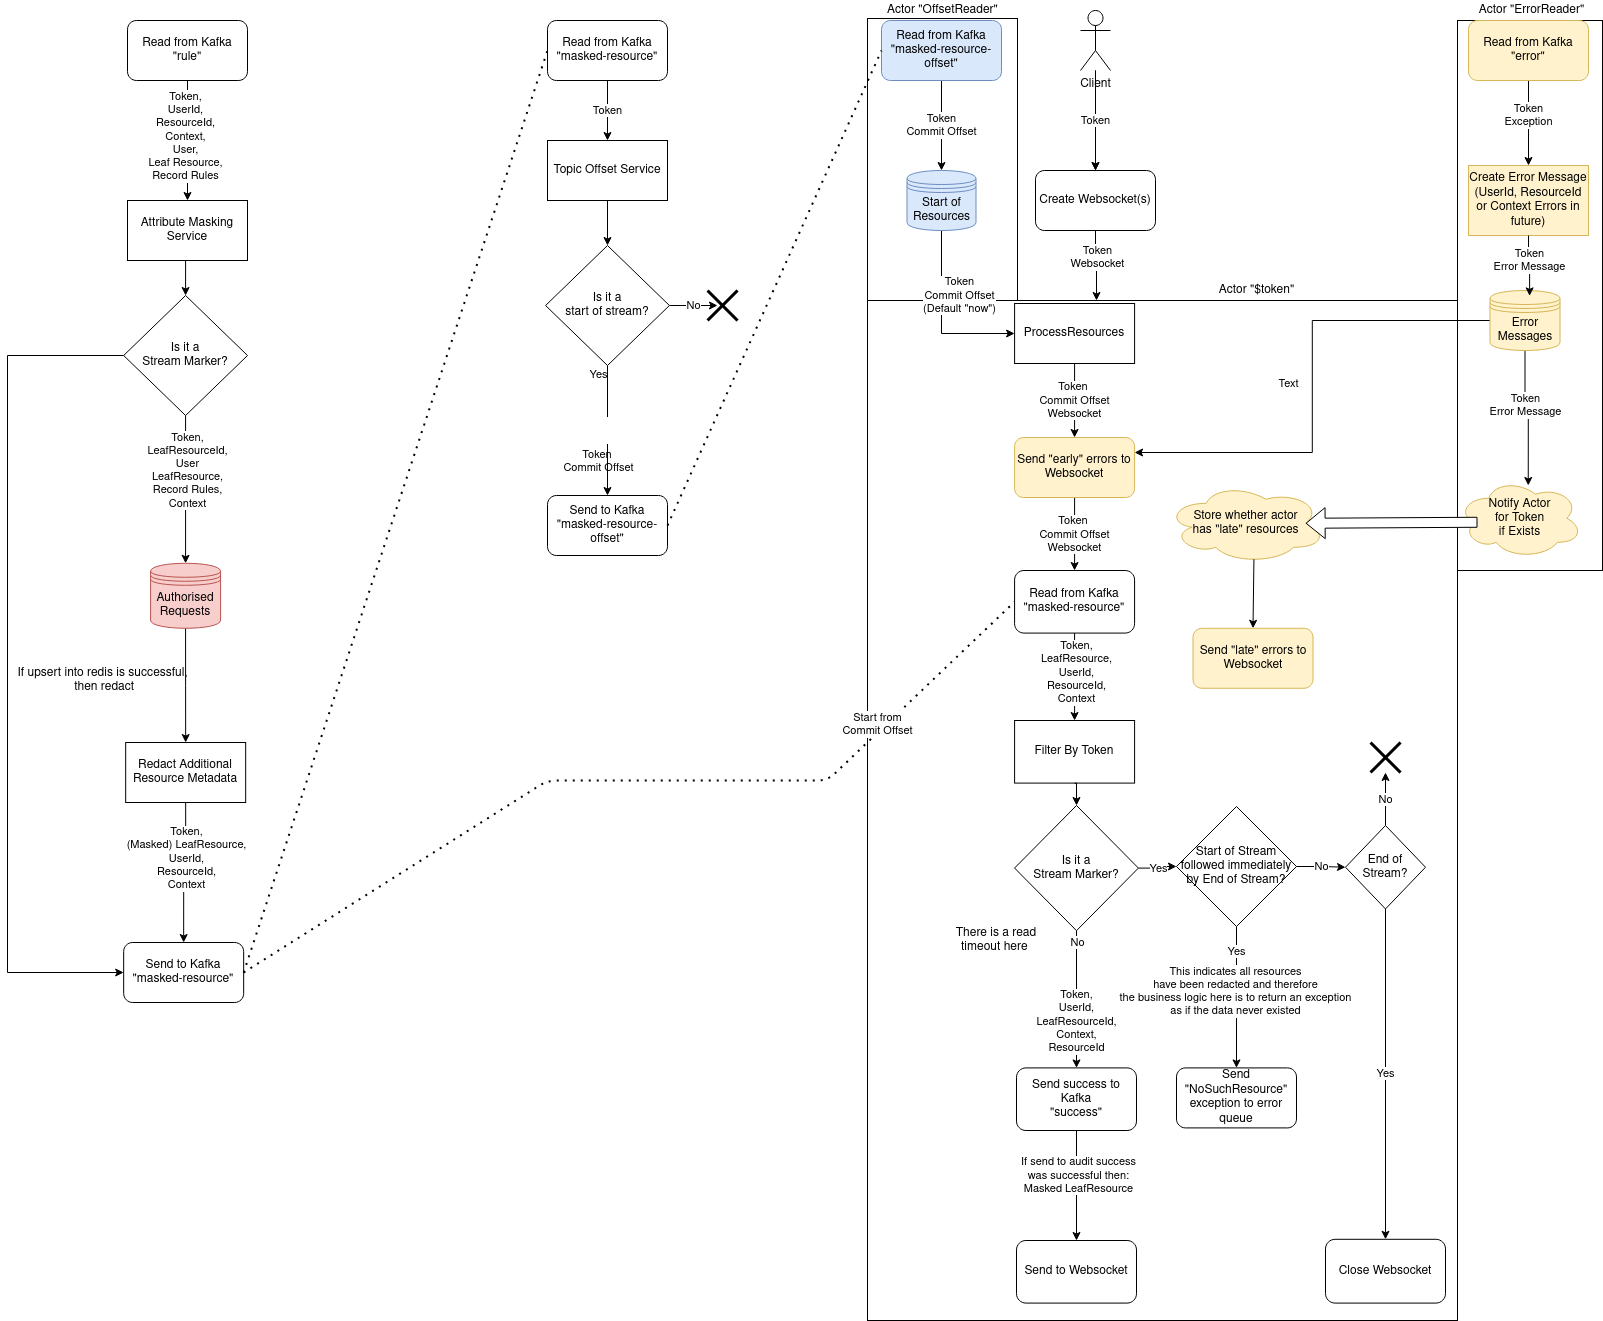
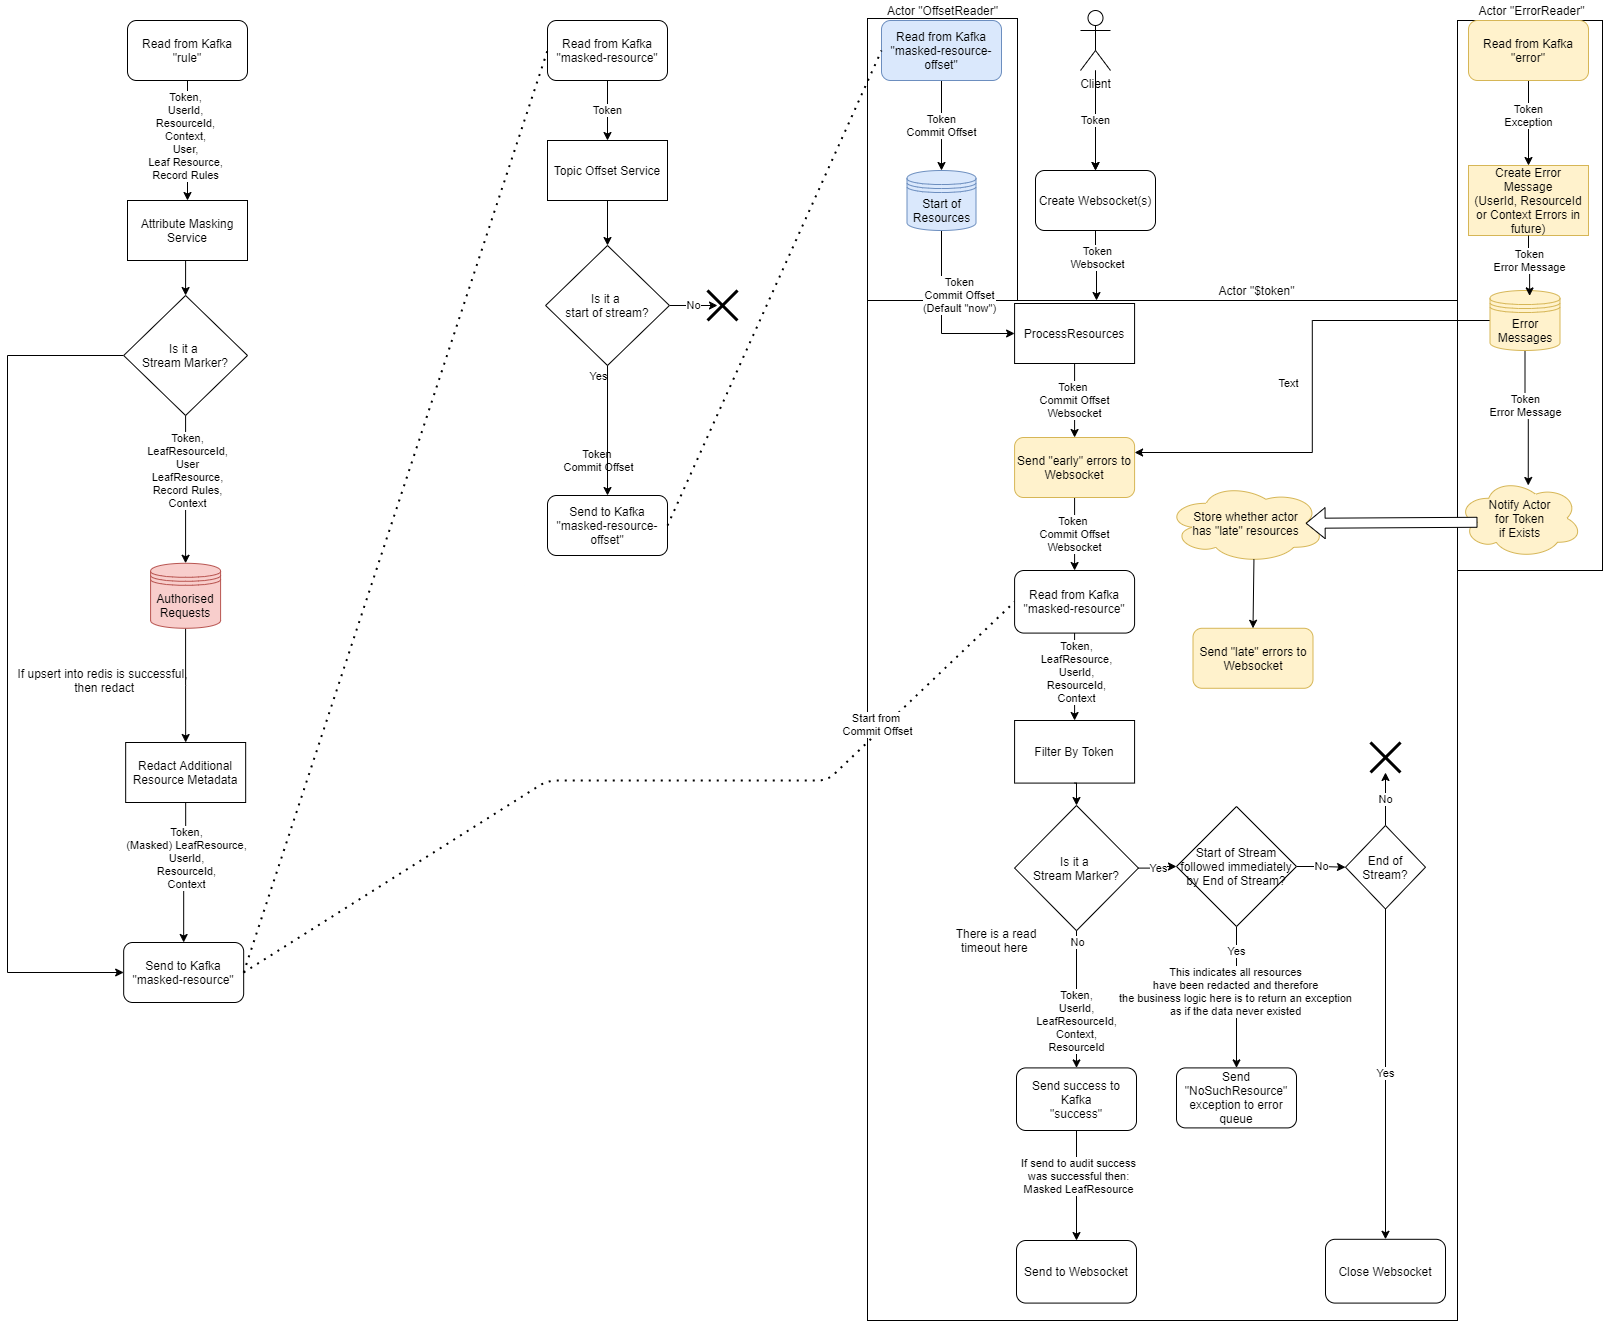
Pal 1057 dark mode (#333)

diff --git a/resource-service/README.md b/resource-service/README.md
@@ -25,6 +25,14 @@ The service will then query the backing store to see if the requested resourceId
 If this is not the case then the request will be passed onto the local implementation of the Resource Service.
 All the returned resources will be within an Akka stream, each element in the stream is then consumed and added to the `resource` Kafka topic to be processed by the Policy Service.
 
+## High Level Architecture
+
+<!--- 
+See resource-service/doc/resource-service.drawio for the source of this diagram
+--->
+![Resource Service diagram](doc/resource-service.png)
+
+
 ## Message Model and Database Domain
 
 | ResourceRequest | ResourceResponse | AuditErrorMessage | 

diff --git a/resource-service/doc/README.md b/resource-service/doc/README.md
@@ -19,7 +19,6 @@ limitations under the License.
 The diagrams presented are compiled from .drawio files.
 See [draw.io](https://app.diagrams.net/) for the tools to reproduce the image from the provided diagram files.
 
+See [resource-service.drawio](./resource-service.drawio) for the source for this diagram:
 
-### [Attribute-Masking-Service.drawio](attribute-masking-service.drawio)
-![attribute-masking-service.drawio](./attribute-masking-service.png)
-
+![Resource Service diagram](./resource-service.png)
